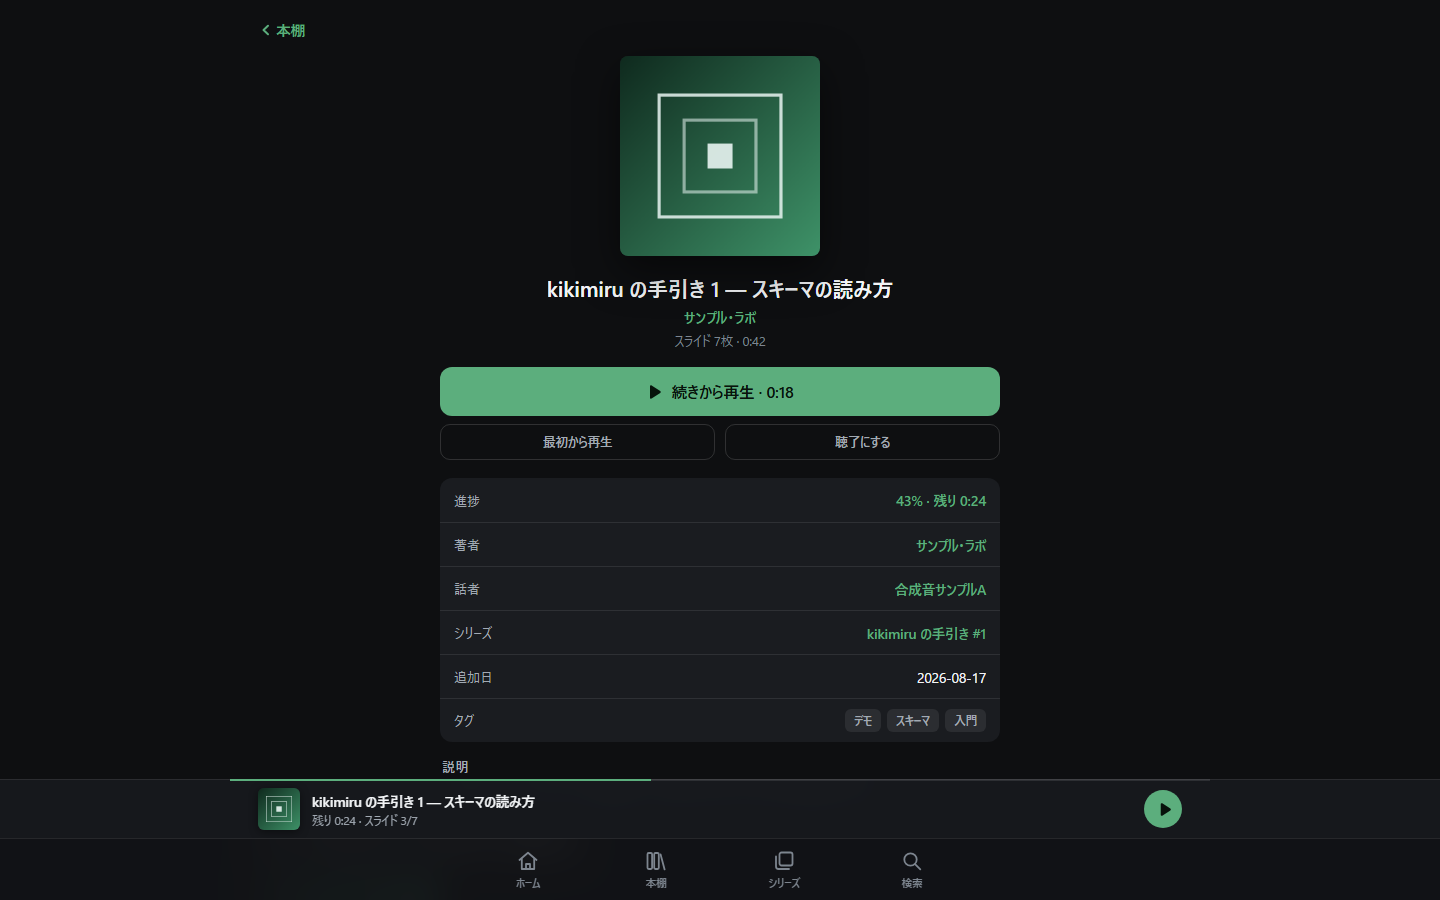
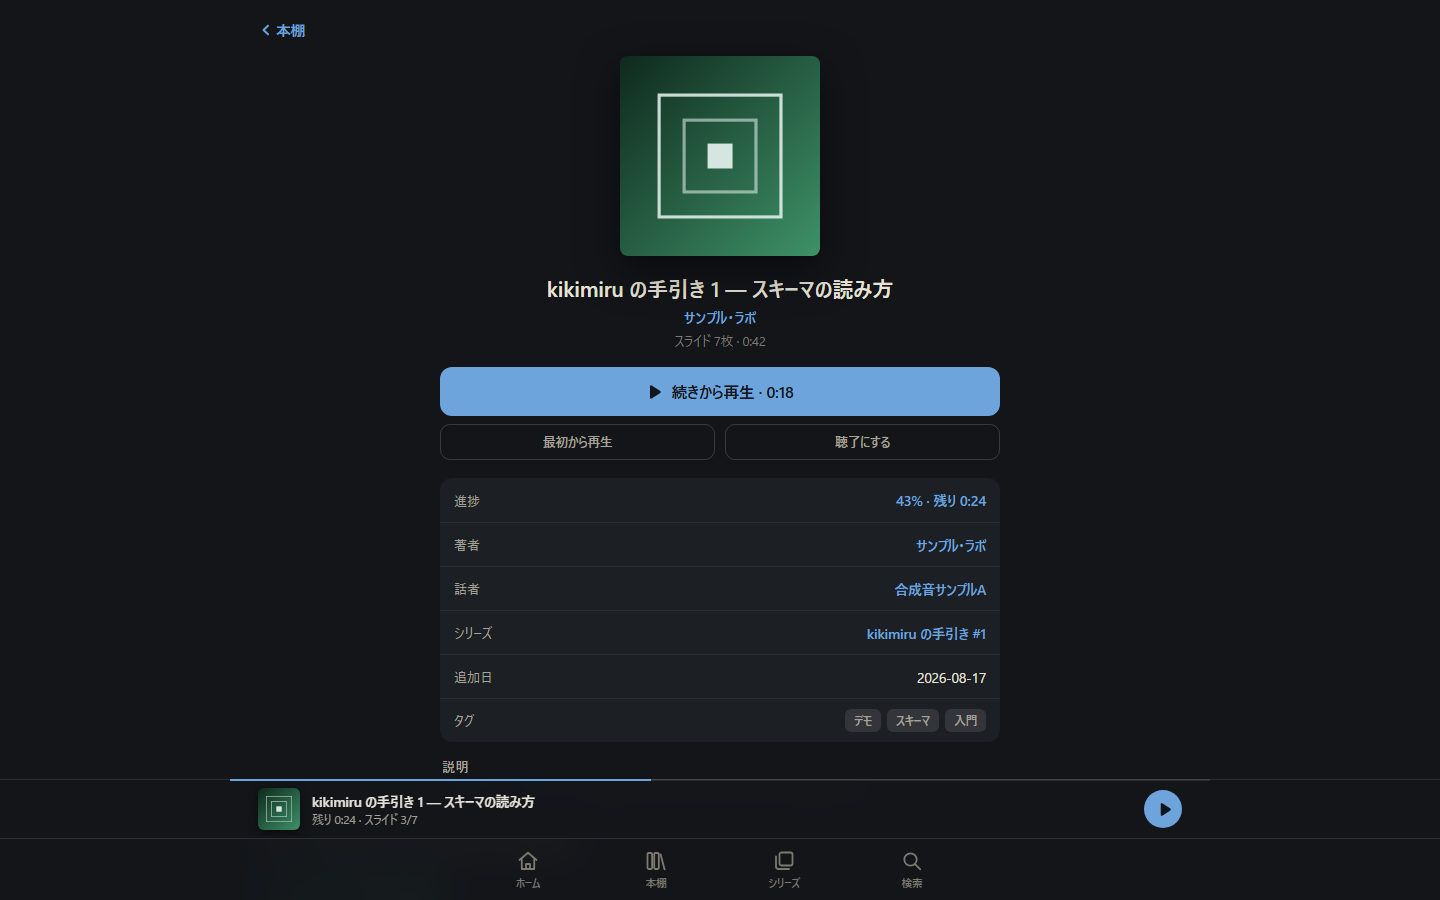
ロゴを刷新し、アイコン・グリフ・PWA配色を揃える
ヘッドフォン(聞く)がスクリーン(見る)を抱え、その面の上で本文の行と音の
波形が並ぶマークにする。deck.json の時間軸に content.json の本文が乗る、
という構造をそのまま図にしたもの。

意匠の正典は web/logo.svg(48x48)。tools/make_icons.py と player.html の
glyph は同じ形を別の描画系へ写したものなので、3か所は同時に直すこと。

- web/logo.svg を追加(配信はしない設計ソース。README・OG用)
- tools/make_icons.py を新意匠で書き直す。Pillow の arc/rounded_rectangle は
  線幅を境界の内側へ引きSVGの中心揃えストロークとずれるため、曲線も折れ線へ
  展開して line(joint=curve) で描く方式にした。SVGとの差は輪郭のAAのみ(1.5%)
- icon-192/512・maskable・apple-touch を再生成。maskable はセーフゾーン
  (中央80%の円)への収まりを実測して倍率0.95(最遠192px / 半径205px)
- web/icon-32.png を追加。16〜32pxでは面の中身が潰れるため、ファビコンは
  中身を省き線を1.9倍にした簡略版を使う
- 配色を現行トークンへ: manifest と theme-color を #0e0f11 から #131519 へ
- server: 配信allowlistに icon-32.png を追加
- docs/screenshots: カバーのプレースホルダが変わった3枚を撮り直す
  (差分は当該グリフ周辺のみ・0.3%以下)。撮影条件も台帳に明文化した

線の細さと波形13本が意匠の要なので、小さくて読みにくいからといって
太らせないこと。小サイズは簡略版で受ける。

diff --git a/tools/make_icons.py b/tools/make_icons.py
@@ -1,12 +1,17 @@
 # -*- coding: utf-8 -*-
 """PWA用アイコンを生成する開発時ツール(Pillowで図形を直接描画)。
 
-意匠は web/player.html のプレースホルダグリフ(スライド+音波)と同一モチーフ。
+意匠の正典は web/logo.svg。ここはその 48x48 座標系を Pillow の描画系へ写したもので、
+web/player.html の glyph も同じ形を写している。**3か所は必ず同時に直すこと。**
 外部素材ゼロ・決定論生成。出力先: web/icon-*.png / web/apple-touch-icon.png
+
+意匠: ヘッドフォン(聞く)がスクリーン(見る)を抱え、その面の上で本文の行と音の波形が並ぶ。
+16〜32px では中身が潰れるため、ファビコン用の icon-32 だけは中身を省いた簡略版を使う。
 
 使い方:
     python tools/make_icons.py
 """
+import math
 from pathlib import Path
 
 from PIL import Image, ImageDraw
@@ -14,47 +19,145 @@ from PIL import Image, ImageDraw
 ROOT = Path(__file__).resolve().parents[1]
 WEB = ROOT / "web"
 
-BG = (14, 15, 17, 255)        # --bg: #0e0f11
-TINT = (92, 174, 125, 255)    # --tint: #5cae7d
-INK = (242, 244, 246, 255)    # --ink: #f2f4f6
+# player.html のダークテーマのトークンに一致させる
+BG = (19, 21, 25, 255)      # --bg:   #131519
+INK = (231, 227, 218, 255)  # --ink:  #e7e3da
+TINT = (110, 164, 220, 255)  # --tint: #6ea4dc
+
+BASE = 48.0  # logo.svg の viewBox
+
+# 線幅は確定した意匠の実測値。細さが意匠の要なので、読みやすさのために太らせない
+# (小さいサイズは simple=True の簡略版で受ける)
+SW_BAND = 1.35   # ヘッドバンド
+SW_CUP = 1.05    # イヤーカップ
+SW_RAIL = 1.5    # スクリーンのレール
+SW_BODY = 0.98   # スクリーンの面
+SW_STEM = 0.94   # 引き手の軸
+SW_RING = 0.84   # 引き手の輪
+SW_LINE = 1.12   # 本文の行
+SW_BAR = 0.66    # 波形のバー
+
+# 簡略版(ファビコン用)の線幅倍率。形は変えず太さだけ上げる
+SIMPLE_BOOST = 1.9
+
+# 波形: (中心x, 上端y, 下端y)。13本という本数も意匠の確定値
+BARS = (
+    (17.61, 27.35, 29.27), (18.68, 26.27, 30.35), (19.62, 27.63, 28.99),
+    (20.63, 26.79, 29.83), (21.68, 25.59, 31.03), (22.76, 26.64, 29.98),
+    (23.84, 27.44, 29.18), (24.87, 27.25, 29.37), (25.97, 26.46, 30.16),
+    (27.03, 25.75, 30.87), (28.11, 27.09, 29.53), (29.14, 26.62, 30.00),
+    (30.24, 27.31, 29.31),
+)
 
 
-def draw_glyph(draw: ImageDraw.ImageDraw, size: int, scale: float, color) -> None:
-    """スライド+音波のグリフを中央に描く。scale はキャンバスに対する占有率。"""
-    # 基準座標系はグリフのviewBox(44x44)。中央配置でスケールする
-    g = size * scale / 44.0
-    ox = (size - 44 * g) / 2.0
-    oy = (size - 44 * g) / 2.0
-    w = max(2, int(round(2.2 * g)))  # 線幅
+class Pen:
+    """48x48 の設計座標をキャンバス座標へ写して描く。
 
-    def xy(x, y):
-        return (ox + x * g, oy + y * g)
+    Pillow の arc / rounded_rectangle は線幅を境界の**内側**へ引くため、SVGの
+    中心揃えストロークと形が変わる。そこで曲線もすべて折れ線に展開し、
+    line(joint="curve") + 両端の丸で描く。これで線幅の解釈がSVGと一致する。
+    """
 
-    # スライド面(角丸矩形)
-    draw.rounded_rectangle([xy(6, 10), xy(28, 27)], radius=2.5 * g, outline=color, width=w)
-    # スライド内の行
-    draw.line([xy(11, 16), xy(23, 16)], fill=color, width=w)
-    draw.line([xy(11, 21), xy(19, 21)], fill=color, width=w)
-    # 音波(縦棒2本)
-    draw.line([xy(33, 15), xy(33, 29)], fill=color, width=w)
-    draw.line([xy(38, 19), xy(38, 25)], fill=color, width=w)
+    def __init__(self, draw: ImageDraw.ImageDraw, size: int, scale: float):
+        self.d = draw
+        self.g = size * scale / BASE
+        self.o = (size - BASE * self.g) / 2.0
+
+    def _p(self, x: float, y: float) -> tuple[float, float]:
+        return (self.o + x * self.g, self.o + y * self.g)
+
+    def _w(self, w: float) -> int:
+        return max(1, int(round(w * self.g)))
+
+    @staticmethod
+    def _arc_pts(cx, cy, r, a0, a1, step=3.0) -> list[tuple[float, float]]:
+        """設計座標での円弧を折れ線にする。角度は Pillow と同じ(0度=3時・時計回り)。"""
+        n = max(2, int(round(abs(a1 - a0) / step)) + 1)
+        out = []
+        for i in range(n):
+            a = math.radians(a0 + (a1 - a0) * i / (n - 1))
+            out.append((cx + r * math.cos(a), cy + r * math.sin(a)))
+        return out
+
+    def stroke(self, pts, color, w, closed=False) -> None:
+        px = self._w(w)
+        cpts = [self._p(x, y) for x, y in pts]
+        if closed:
+            cpts = cpts + [cpts[0]]
+        self.d.line(cpts, fill=color, width=px, joint="curve")
+        # joint="curve" は継ぎ目だけを丸める。開いた線の両端は自前で丸める
+        ends = () if closed else (cpts[0], cpts[-1])
+        r = px / 2.0
+        for cx, cy in ends:
+            self.d.ellipse([cx - r, cy - r, cx + r, cy + r], fill=color)
+
+    def line(self, x0, y0, x1, y1, color, w) -> None:
+        self.stroke([(x0, y0), (x1, y1)], color, w)
+
+    def rrect(self, x0, y0, x1, y1, r, color, w) -> None:
+        pts = [(x0 + r, y0)]
+        pts += self._arc_pts(x1 - r, y0 + r, r, 270, 360)
+        pts += self._arc_pts(x1 - r, y1 - r, r, 0, 90)
+        pts += self._arc_pts(x0 + r, y1 - r, r, 90, 180)
+        pts += self._arc_pts(x0 + r, y0 + r, r, 180, 270)
+        self.stroke(pts, color, w, closed=True)
+
+    def circle(self, cx, cy, r, color, w) -> None:
+        self.stroke(self._arc_pts(cx, cy, r, 0, 360), color, w, closed=True)
 
 
-def make_icon(size: int, scale: float, bg, fg) -> Image.Image:
-    img = Image.new("RGBA", (size, size), bg)
-    draw_glyph(ImageDraw.Draw(img), size, scale, fg)
+def draw_mark(draw: ImageDraw.ImageDraw, size: int, scale: float,
+              ink=INK, tint=TINT, simple: bool = False) -> None:
+    """マークを中央に描く。
+
+    simple=True はファビコン用の簡略版で、中身(行と波形)を省き線を太らせる。
+    16〜32pxでは元の線幅だと形が消えるため、位置と輪郭は保ったまま太さだけ上げる。
+    """
+    p = Pen(draw, size, scale)
+    k = SIMPLE_BOOST if simple else 1.0
+
+    # ヘッドフォン: ヘッドバンド(縦棒 - 半円 - 縦棒の一筆)とイヤーカップ
+    band = [(10.32, 29.5)] + p._arc_pts(23.9, 21.67, 13.58, 180, 360) + [(37.48, 29.5)]
+    p.stroke(band, ink, SW_BAND * k)
+    p.rrect(7.8, 24.9, 12.55, 34.1, 2.0, ink, SW_CUP * k)
+    p.rrect(35.25, 24.9, 40.0, 34.1, 2.0, ink, SW_CUP * k)
+
+    # スクリーン: レール・面(上辺なし・下角のみ丸め)・引き手
+    p.line(13.55, 17.72, 34.27, 17.72, tint, SW_RAIL * k)
+    body = ([(14.49, 18.2)] + p._arc_pts(16.29, 32.5, 1.8, 180, 90)
+            + p._arc_pts(31.5, 32.5, 1.8, 90, 0) + [(33.3, 18.2)])
+    p.stroke(body, tint, SW_BODY * k)
+    p.line(23.9, 34.3, 23.9, 36.84, tint, SW_STEM * k)
+    p.circle(23.9, 37.99, 1.15, tint, SW_RING * k)
+
+    if simple:
+        return
+
+    # 面の上の中身: 本文の行と音の波形
+    p.line(17.76, 22.64, 30.10, 22.64, ink, SW_LINE)
+    for x, y0, y1 in BARS:
+        p.line(x, y0, x, y1, ink, SW_BAR)
+
+
+def make_icon(size: int, scale: float, simple: bool = False) -> Image.Image:
+    img = Image.new("RGBA", (size, size), BG)
+    draw_mark(ImageDraw.Draw(img), size, scale, simple=simple)
     return img
 
 
 def main() -> None:
-    # 通常アイコン: グリフ大きめ・アクセント色
-    make_icon(192, 0.66, BG, TINT).save(WEB / "icon-192.png")
-    make_icon(512, 0.66, BG, TINT).save(WEB / "icon-512.png")
-    # maskable: OS側で円形等に切り抜かれるため、セーフゾーン(中央80%)に収める
-    make_icon(512, 0.52, BG, TINT).save(WEB / "icon-maskable-512.png")
-    # apple-touch-icon: 非透過・180px(iOSはtransparent非推奨)
-    make_icon(180, 0.62, BG, TINT).save(WEB / "apple-touch-icon.png")
-    for name in ("icon-192.png", "icon-512.png", "icon-maskable-512.png", "apple-touch-icon.png"):
+    # 通常アイコン: scale 1.0 = 確定意匠の余白の取り方そのまま(48の枠にマーク69%)
+    make_icon(192, 1.0).save(WEB / "icon-192.png")
+    make_icon(512, 1.0).save(WEB / "icon-512.png")
+    # maskable: OS側で円形等に切り抜かれるため、セーフゾーン(中央80%の円)に収める。
+    # 0.95 での実測は最遠191px / セーフ半径205px(生成画像の画素走査で確認)
+    make_icon(512, 0.95).save(WEB / "icon-maskable-512.png")
+    # apple-touch-icon: 非透過・180px(iOSはtransparent非推奨)。iOS側の角丸ぶん少し内側へ
+    make_icon(180, 0.95).save(WEB / "apple-touch-icon.png")
+    # ファビコン: 16〜20pxまで縮むので中身を省いた簡略版にする
+    make_icon(32, 1.0, simple=True).save(WEB / "icon-32.png")
+    for name in ("icon-192.png", "icon-512.png", "icon-maskable-512.png",
+                 "apple-touch-icon.png", "icon-32.png"):
         print(f"生成: {WEB / name}")
 
 

diff --git a/server/kikimiru_server.py b/server/kikimiru_server.py
@@ -72,6 +72,7 @@ WEB_ALLOWLIST = {
     # ため send_web 側で Cache-Control: no-cache を付ける
     "manifest.webmanifest": (WEB_DIR / "manifest.webmanifest", "application/manifest+json; charset=utf-8"),
     "sw.js": (WEB_DIR / "sw.js", "text/javascript; charset=utf-8"),
+    "icon-32.png": (WEB_DIR / "icon-32.png", "image/png"),
     "icon-192.png": (WEB_DIR / "icon-192.png", "image/png"),
     "icon-512.png": (WEB_DIR / "icon-512.png", "image/png"),
     "icon-maskable-512.png": (WEB_DIR / "icon-maskable-512.png", "image/png"),
@@ -1235,7 +1236,7 @@ def main() -> None:
     if args.set_password:
         sys.exit(set_password_interactive(args.state_dir))
 
-    # 認証は必須(CP1承認: Q1=常に必須)。未設定なら手順を示して起動を拒否する
+    # 認証は必須。未設定なら手順を示して起動を拒否する
     auth = load_auth(args.state_dir)
     if auth is None:
         print("エラー: パスワードが設定されていません。先に次を実行してください:")

diff --git a/web/SOURCES.md b/web/SOURCES.md
@@ -2,12 +2,57 @@
 
 配信用の画像素材。すべて `tools/make_icons.py` が Pillow の図形描画のみで生成した
 自作素材(外部素材・フォントラスタライズ不使用・決定論生成)。
-意匠は `player.html` 内のプレースホルダグリフ(スライド+音波)と同一モチーフ。
 
-| ファイル | 内容 |
-|---|---|
-| icon-192.png / icon-512.png | PWAアイコン(通常) |
-| icon-maskable-512.png | PWAアイコン(maskable・セーフゾーン80%) |
-| apple-touch-icon.png | iOSホーム画面用(180px・非透過) |
+意匠は**ヘッドフォン(聞く)がスクリーン(見る)を抱え、その面の上で本文の行と音の波形が並ぶ**形。
+`deck.json` の時間軸に `content.json` の本文が乗る、という構造をそのまま図にしている。
+
+| ファイル | 内容 | マークの倍率 |
+|---|---|---|
+| logo.svg | **意匠の正典**(48x48・配信しない設計ソース)。README・OG用 | — |
+| icon-192.png / icon-512.png | PWAアイコン(通常) | 1.00 |
+| icon-maskable-512.png | PWAアイコン(maskable) | 0.95 |
+| apple-touch-icon.png | iOSホーム画面用(180px・非透過) | 0.95 |
+| icon-32.png | ファビコン。**中身を省き線を1.9倍にした簡略版** | 1.00 |
+
+倍率1.00は、確定意匠の生成画像そのままの余白の取り方(48の枠に対してマークが69%)。
+maskable は円形マスク(中央80%の円)に収めるため0.95にしてある
+(実測: 中心からの最遠192px / セーフ半径205px・はみ出し0画素)。
 
 再生成: `python tools/make_icons.py`
+
+## 線の細さは意匠の要
+
+線幅は確定した意匠を画素単位で実測した値(ヘッドバンド1.35 / イヤーカップ1.05 / スクリーンの面0.98 /
+波形のバー0.66、いずれも48座標系)。**小さいサイズで読みにくいからといって太らせない。**
+細い線と13本の波形が意匠そのもので、太らせると別のロゴになる(一度やって差し戻した)。
+
+小サイズは簡略版で受ける。位置と輪郭はそのままに、線幅を **1.9倍**(`SIMPLE_BOOST`)にし、
+面の中身(本文の行と波形)を省く。適用先はファビコン(16〜32px)と
+カバーのプレースホルダ(44px以下・`player.html` の `glyphSmall`)。
+
+## 同じ形が3か所にある
+
+Pillow・SVG・DOM で描画系が違うため、同一の形を3か所に写している。**変更時は3か所とも直すこと。**
+
+| 場所 | 用途 |
+|---|---|
+| `web/logo.svg` | 正典。座標の基準 |
+| `tools/make_icons.py` の `draw_mark()` | PNG生成 |
+| `web/player.html` の `I.glyph` / `I.glyphSmall` | ログイン画面のマーク / カバーのプレースホルダ |
+
+`logo.svg` は**サーバの配信allowlistに入れていない**(`server/kikimiru_server.py` の
+`WEB_ALLOWLIST`)。SVGは同一オリジンでのスクリプト実行経路になりうるため、実行時に不要な
+ものは配信しない方針に合わせた。実行時に使うのは PNG と `player.html` 内のインラインSVGだけ。
+
+## 配色
+
+`player.html` のダークテーマのトークンに一致させている。
+
+| 役割 | 値 | player.html のトークン |
+|---|---|---|
+| 地 | `#131519` | `--bg` |
+| ヘッドフォンと面の中身 | `#e7e3da` | `--ink` |
+| スクリーン(枠・レール・引き手) | `#6ea4dc` | `--tint` |
+
+`logo.svg` だけは `prefers-color-scheme` でライト側(`#232019` / `#2f6093`)へ切り替わる。
+PNGは地色を焼き込むためダーク固定。

diff --git a/docs/screenshots/SOURCES.md b/docs/screenshots/SOURCES.md
@@ -7,10 +7,29 @@ README掲載用のUIスクリーンショット。すべて本リポジトリの
 
 | ファイル | 内容 | 撮影 |
 |---|---|---|
-| home.png | ホーム画面(1440×900・再生途中の進捗を注入した状態) | 2026-08-19 |
+| home.png | ホーム画面(1440×900・再生途中の進捗を注入した状態) | 2026-08-20 |
 | player.png | プレイヤー画面(1440×900・demo-guide-1) | 2026-08-19 |
-| book-detail.png | ブック詳細画面(1440×900・demo-guide-1) | 2026-08-19 |
-| mobile-home.png | ホーム画面(390×844・モバイル幅) | 2026-08-19 |
+| book-detail.png | ブック詳細画面(1440×900・demo-guide-1) | 2026-08-20 |
+| mobile-home.png | ホーム画面(390×844・モバイル幅) | 2026-08-20 |
 
-再撮影する場合: サーバをデモライブラリで起動し、各画面を同解像度で撮り直す
-(進捗表示は localStorage に `kikimiru.pos.demo/<id>` を注入して再現する)。
+2026-08-20: ロゴ刷新に伴い、カバーのプレースホルダのグリフが変わったため3枚を撮り直した
+(差分は当該グリフ周辺のみ・0.3%以下)。
+
+**player.png は現在の画面と一致していない。** プレイヤーUIの全面再構築(commit 765b867)
+以降、既定表示は表紙+チャプター一覧になり、上部のタブでスライド表示(16:9)へ切り替わる。
+デスクトップ幅では2カラム(左=メディア+操作 / 右=チャプター)。撮り直す際は、
+どちらの表示を載せるかを決めてから撮ること。
+
+## 再撮影の条件
+
+サーバをデモライブラリで起動し、各画面を同解像度で撮る。掲載中のものと揃える条件:
+
+- テーマは**ダーク**(`localStorage` の `kikimiru.theme` を `dark` にする。OS設定には従わない)
+- 進捗は `localStorage` の `kikimiru.pos.demo/<id>` に注入する。
+  形式は `player.html` の `savePos` と同じ `{t, d, at, s, n}`
+  - `demo/demo-guide-1`: `{t: 18, d: 42, s: 3, n: 7}`(残り 0:24・スライド 3/7)
+  - `demo/demo-audio-lab`: `{t: 35, d: 35, s: 5, n: 5}`(聴了)
+- `at` は固定値にする(`Date.now()` だと撮影ごとに表示が揺れる)
+- サーバをスクリプトから起動する場合、**標準出力をパイプのまま放置しない**。
+  リクエスト毎のログでパイプバッファが埋まり、サーバが write でブロックして応答しなくなる
+  (実測。ファイルか `DEVNULL` へ逃がすこと)
